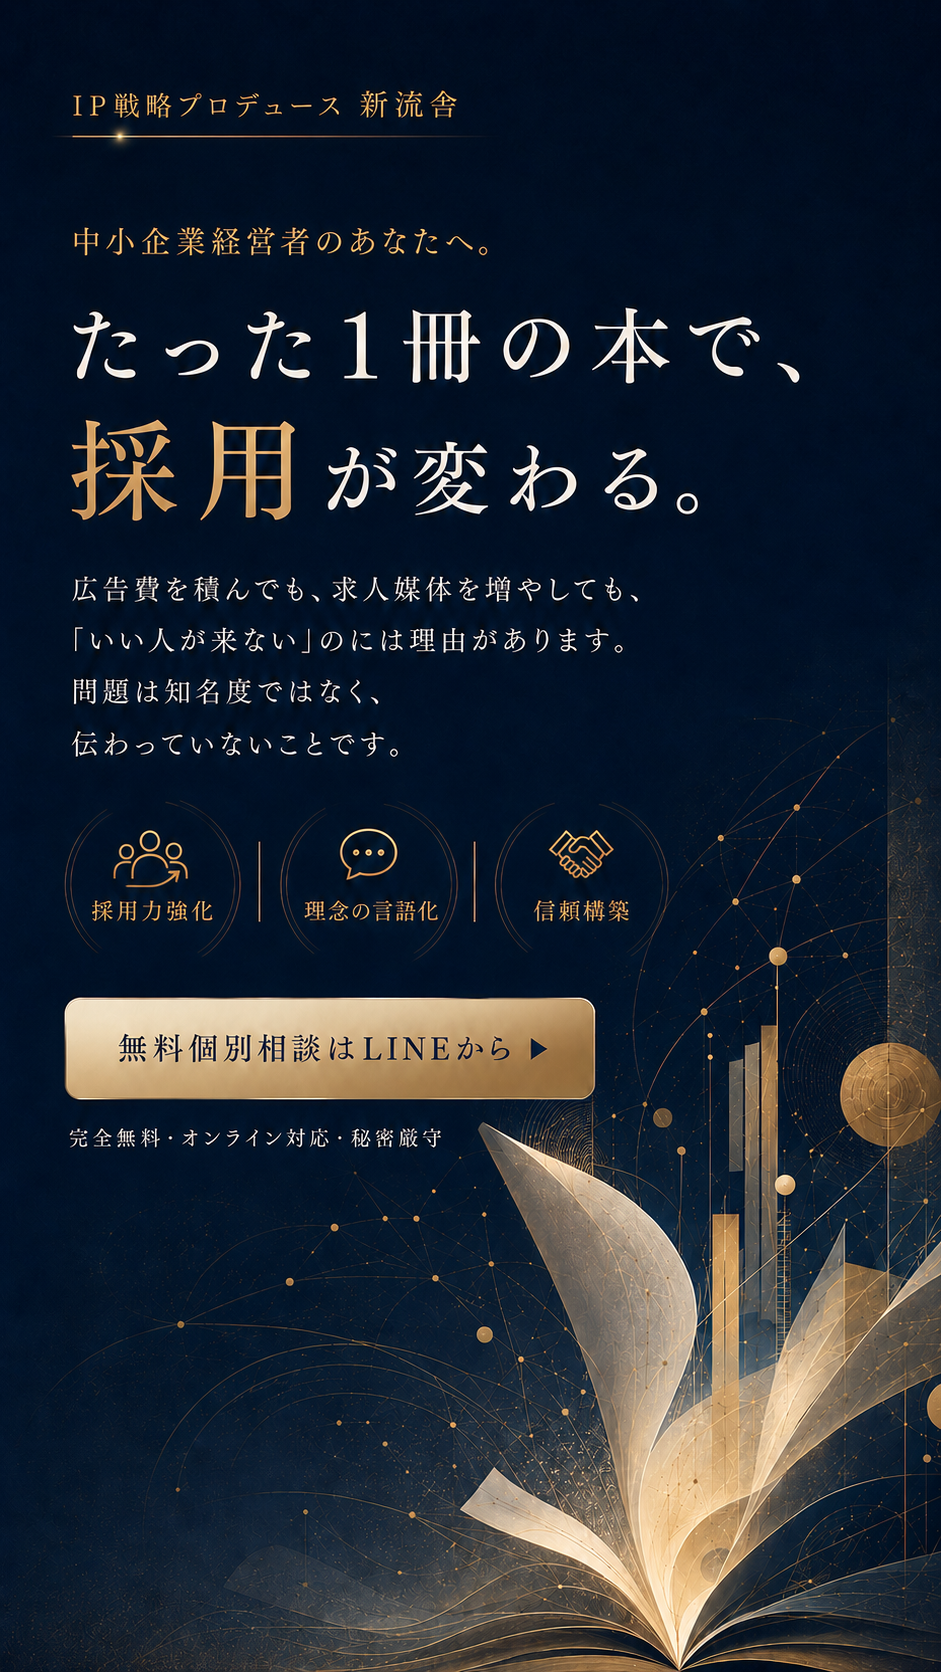
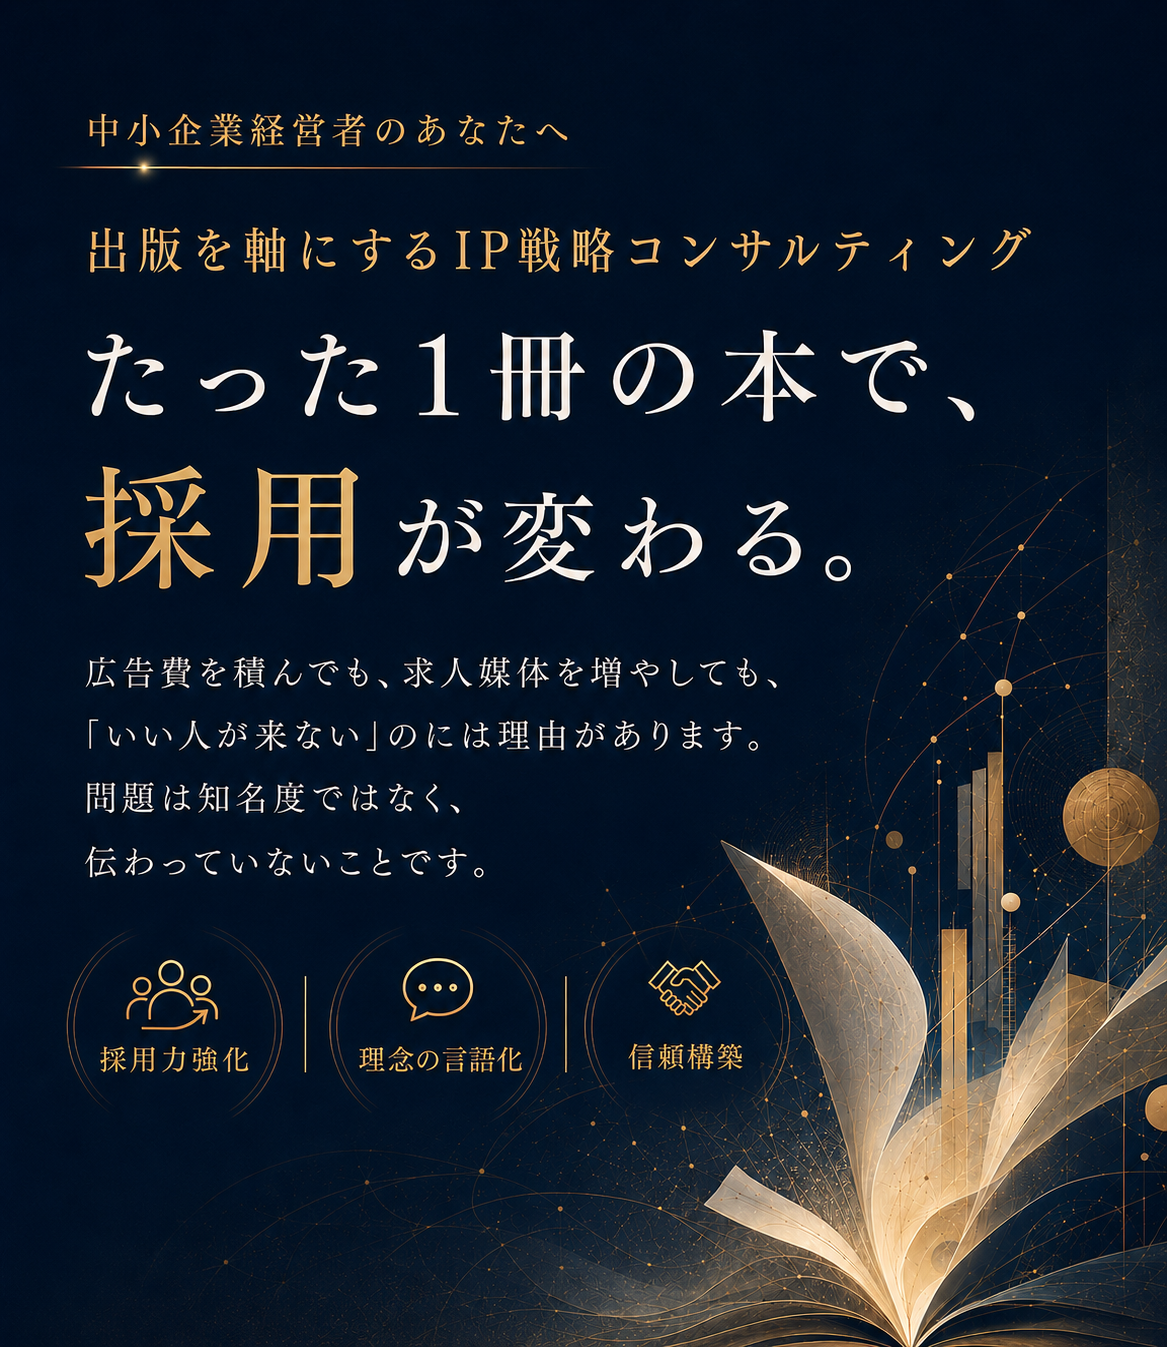
Replace v10 hero image and tighten spacing to next section

diff --git a/v10/index.html b/v10/index.html
@@ -78,6 +78,7 @@
       background: var(--navy);
       position: relative;
       overflow: hidden;
+      padding-top: 28px;
     }
     .sec-problem::after {
       content: '';
@@ -679,7 +680,7 @@
 
 <!-- HERO -->
 <section class="hero">
-  <img src="hero.png" alt="新流舎 出版IPプロデュース">
+  <img src="hero.png?v=2" alt="新流舎 出版IPプロデュース">
 </section>
 
 <!-- PROBLEM -->
